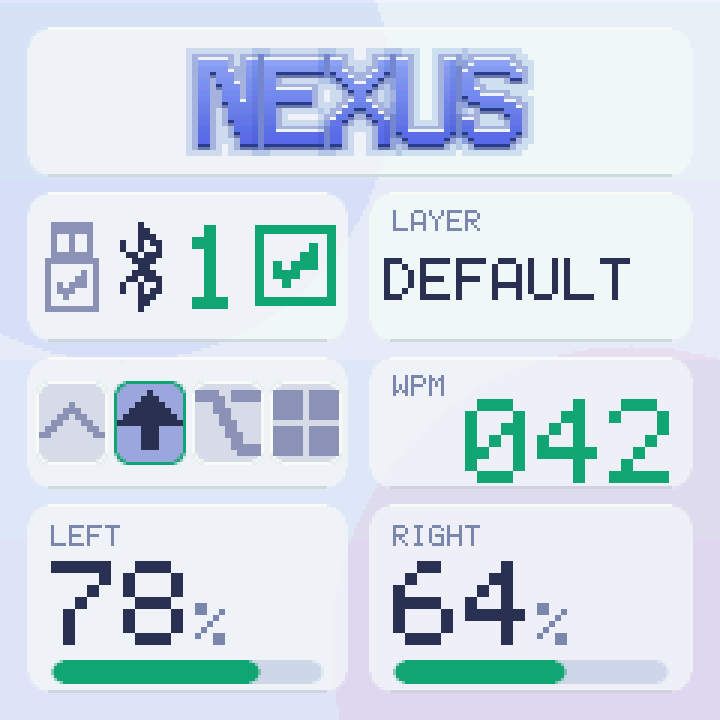
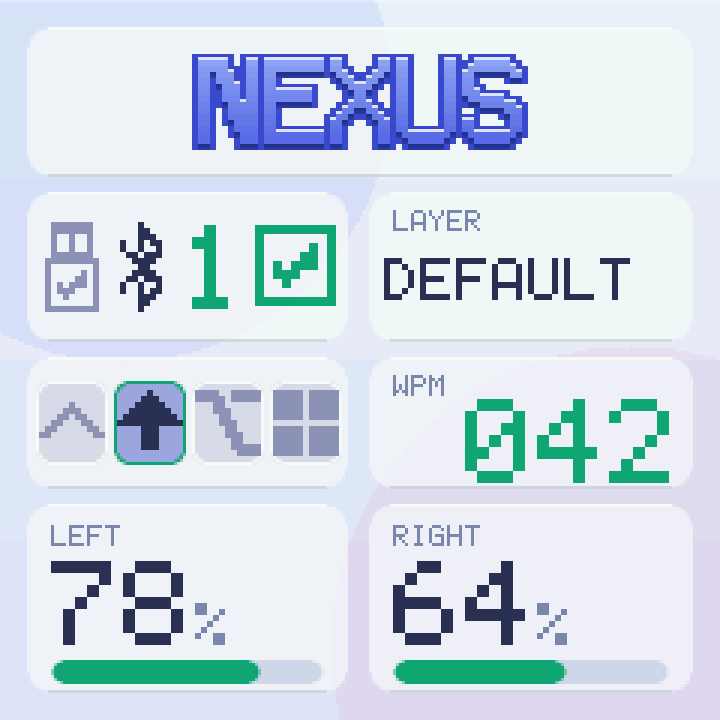
fix(N-01): daylight outlines the wordmark instead of glowing it
A halo works because a bright letter plausibly spills light into a dark
ground. On a light one there is nothing for it to spill into, and the same
halo reads as the screen being out of focus - a rendering failure rather than
a style choice, on the first screen anyone sees.

So the halo is per theme now: wordmark_glow_alpha, and zero does not mean
"no glow" - it means outline. gfx_face_text_glass() draws wordmark[2] one
opaque pixel around the letterform instead, which the face then overdraws
down to a single lit edge. That matters: the halo was doing two jobs and only
one of them was decoration. Drop both and the letters go soft against the
panel.

Daylight is the theme that takes it. The other six carry the old constant as
their value, and their renders are byte-identical - only home-daylight.png
changed.

The rule is decidable rather than taste, so tests/ui/test_theme.py decides
it: card luma is computed by compositing each theme's panel tint over its own
background at its own opacity - the tint alone says nothing, NEXUS paints
near-white at low alpha over near-black - and a light card must have no halo
while a dark one must have one. It also checks the outline colour has
contrast against the card it lands on.

test_home_layout.py now asserts the UI static ceiling the plan sets: the
compositor band plus the menu value cache is 5,984 B, Diagnostics computes it
rather than printing a literal, and the docs quote the same figure.

Changed region(s): [[0.2444, 0.0611, 0.7639, 0.2139]]

diff --git a/tests/ui/test_theme.py b/tests/ui/test_theme.py
@@ -1,0 +1,113 @@
+#!/usr/bin/env python3
+"""Theme table rules that are not a matter of taste.
+
+A palette is mostly judgement, but a few things in it are decidable, and
+those are the ones that get shipped wrong: a device meant for a dark ground
+used on a light one, a field left at its zero value because a new theme was
+added by copying an old one and deleting the lines that did not compile.
+
+So this checks the rules that have a reason, not the colours.
+"""
+import os
+import re
+import sys
+
+ROOT = os.path.join(os.path.dirname(os.path.abspath(__file__)), '..', '..')
+
+bad = []
+
+
+def ok(cond, why):
+    print(('  ok    ' if cond else '  FAIL  ') + why)
+    if not cond:
+        bad.append(why)
+
+
+def read(*parts):
+    with open(os.path.join(ROOT, *parts), encoding='utf-8') as f:
+        return f.read()
+
+
+def lum(rgb):
+    """Rec. 601 luma, 0-255. Good enough to say light from dark."""
+    r, g, b = (rgb >> 16) & 0xFF, (rgb >> 8) & 0xFF, rgb & 0xFF
+    return (299 * r + 587 * g + 114 * b) // 1000
+
+
+def over(top, bot, alpha):
+    """What the eye gets: a tint composited over the ground beneath it.
+
+    The panel colour on its own says nothing - NEXUS paints a near-white
+    tint at low opacity over a near-black ground and the result is dark.
+    """
+    out = 0
+    for sh in (16, 8, 0):
+        t, b = (top >> sh) & 0xFF, (bot >> sh) & 0xFF
+        out |= ((t * alpha + b * (255 - alpha)) // 255) << sh
+    return out
+
+
+def panel_lum(t):
+    """Luma of a card as drawn, over the top of the background gradient."""
+    return lum(over(t['panel'], t['bg_top'], t['panel_alpha']))
+
+
+def themes():
+    out = []
+    for blob in read('src', 'ui', 'theme.c').split('.name = ')[1:]:
+        t = {'name': re.match(r'"([^"]+)"', blob).group(1)}
+        for m in re.finditer(r'\.(\w+) = NEXUS_C\(0x([0-9A-Fa-f]+)u\)', blob):
+            t[m.group(1)] = int(m.group(2), 16)
+        for m in re.finditer(r'\.(\w+_alpha|radius) = (\d+)', blob):
+            t[m.group(1)] = int(m.group(2))
+        wm = re.search(r'\.wordmark = \{([^}]*)\}', blob, re.S).group(1)
+        t['wordmark'] = [int(x, 16)
+                         for x in re.findall(r'0x([0-9A-Fa-f]+)u', wm)]
+        out.append(t)
+    return out
+
+
+def main():
+    ts = themes()
+    print('%d themes' % len(ts))
+
+    print('\nEvery theme fills in every field')
+    fields = set()
+    for t in ts:
+        fields |= set(t)
+    for t in ts:
+        missing = sorted(fields - set(t))
+        ok(not missing, '%-9s declares them all%s'
+           % (t['name'], '' if not missing else ' - missing %s' % missing))
+
+    print('\nThe wordmark halo is a dark-ground device')
+    # A halo works because a bright letter plausibly spills light into a dark
+    # ground. On a light one there is nothing to spill into and the same
+    # halo reads as the panel being out of focus, so the rule is decidable
+    # from the background rather than per-theme taste.
+    for t in ts:
+        light = panel_lum(t) > 140
+        glow = t.get('wordmark_glow_alpha')
+        ok(glow == 0 if light else glow > 0,
+           '%-9s card luma %3d -> glow %s'
+           % (t['name'], panel_lum(t),
+              'off, outlined instead' if glow == 0 else str(glow)))
+
+    print('\nA theme with no halo still needs its edge')
+    g = read('src', 'ui', 'gfx.c')
+    ok('} else {' in g.split('if (glow_a) {')[1][:900],
+       'gfx_face_text_glass draws an outline when glow_a is 0')
+    for t in ts:
+        if t.get('wordmark_glow_alpha'):
+            continue
+        # wordmark[2] is what gets drawn as that outline.
+        ok(abs(lum(t['wordmark'][2]) - panel_lum(t)) > 60,
+           '%-9s outlines in wordmark[2], luma %d against a card at %d'
+           % (t['name'], lum(t['wordmark'][2]), panel_lum(t)))
+
+    print('\n%s' % ('FAILED (%d)' % len(bad) if bad else 'PASSED'))
+    return 1 if bad else 0
+
+
+if __name__ == '__main__':
+    sys.exit(main())

diff --git a/scripts/render_ui.py b/scripts/render_ui.py
@@ -401,10 +401,12 @@ class UI:
             self.cv.text(x, y, ch, scale, c)
             x += text_w(ch, scale) + scale + track
 
-    def wordmark(self, cx, y, s, scale, glow_a=70, lit=-1):
+    def wordmark(self, cx, y, s, scale, glow_a=None, lit=-1):
         """gfx_face_text_glass(), per letter, as wordmark_letters() does."""
         t, cv = self.t, self.cv
         wm = t['wordmark']
+        if glow_a is None:
+            glow_a = t['wordmark_glow_alpha']
         pen = cx - face_w(s, scale) // 2
         fy = y + 2 * scale
         for i, ch in enumerate(s):
@@ -413,15 +415,22 @@ class UI:
             top, bot, glow = wm[0], wm[1], glow_a
             if lit >= 0 and i == lit:
                 # The splash walks this along the word: the lit letter goes
-                # flat white and its halo comes up to full.
+                # flat and its halo comes up to full - on a theme with no
+                # halo the colour change carries it alone.
                 top = bot = t['value']
-                glow = 255
+                glow = 255 if glow else 0
             h1 = dilate(g, FACE_H)
-            h2 = dilate(h1, FACE_H + 2)
-            cv.glyph(pen - 2 * scale, fy - 2 * scale, h2, FACE_W + 4,
-                     FACE_H + 4, scale, wm[2], glow // 2)
-            cv.glyph(pen - scale, fy - scale, h1, FACE_W + 2, FACE_H + 2,
-                     scale, wm[2], glow)
+            if glow:
+                h2 = dilate(h1, FACE_H + 2)
+                cv.glyph(pen - 2 * scale, fy - 2 * scale, h2, FACE_W + 4,
+                         FACE_H + 4, scale, wm[2], glow // 2)
+                cv.glyph(pen - scale, fy - scale, h1, FACE_W + 2, FACE_H + 2,
+                         scale, wm[2], glow)
+            else:
+                # No halo: a one-pixel outline instead, which the face
+                # overdraws down to a single lit edge.
+                cv.glyph(pen - scale, fy - scale, h1, FACE_W + 2, FACE_H + 2,
+                         scale, wm[2], OPAQUE)
             cv.glyph(pen, fy + 2, g, FACE_W, FACE_H, scale, wm[4], 90)
             cv.glyph(pen, fy + 1, g, FACE_W, FACE_H, scale, wm[3], 200)
             cv.glyph(pen, fy - 1, g, FACE_W, FACE_H, scale, t['edge_hi'], 220)

diff --git a/src/ui/theme.c b/src/ui/theme.c
@@ -31,6 +31,7 @@ static const struct nexus_theme themes[] = {
 		.wordmark = { NEXUS_C(0xFFFFFFu), NEXUS_C(0xFFC2DCu),
 			      NEXUS_C(0xFF5FA2u), NEXUS_C(0x8E2A63u),
 			      NEXUS_C(0x3A0F2Au) },
+		.wordmark_glow_alpha = 70,
 		.radius = 7,
 	},
 	{
@@ -52,6 +53,7 @@ static const struct nexus_theme themes[] = {
 		.wordmark = { NEXUS_C(0xFFFFFFu), NEXUS_C(0xFFC2DCu),
 			      NEXUS_C(0xFF5FA2u), NEXUS_C(0x8E2A63u),
 			      NEXUS_C(0x3A0F2Au) },
+		.wordmark_glow_alpha = 70,
 		.radius = 7,
 	},
 	{
@@ -73,6 +75,10 @@ static const struct nexus_theme themes[] = {
 		.wordmark = { NEXUS_C(0x8FA0F0u), NEXUS_C(0x5A6BE0u),
 			      NEXUS_C(0x3B4BC8u), NEXUS_C(0x26308Au),
 			      NEXUS_C(0x161C52u) },
+		/* No halo on a light ground: it reads as blur rather
+		 * than as light, and wordmark[2] outlines the letter
+		 * instead so the edges stay defined. */
+		.wordmark_glow_alpha = 0,
 		.radius = 7,
 	},
 	{
@@ -94,6 +100,7 @@ static const struct nexus_theme themes[] = {
 		.wordmark = { NEXUS_C(0xF7C2D8u), NEXUS_C(0xE86A9Au),
 			      NEXUS_C(0xA83C6Cu), NEXUS_C(0x6B2244u),
 			      NEXUS_C(0x3A1226u) },
+		.wordmark_glow_alpha = 70,
 		.radius = 9,
 	},
 	{
@@ -113,6 +120,7 @@ static const struct nexus_theme themes[] = {
 		.wordmark = { NEXUS_C(0xFFF0D8u), NEXUS_C(0xFFD9A0u),
 			      NEXUS_C(0xE9A23Bu), NEXUS_C(0x8A5414u),
 			      NEXUS_C(0x4A2C0Au) },
+		.wordmark_glow_alpha = 70,
 		.radius = 7,
 	},
 	{
@@ -132,6 +140,7 @@ static const struct nexus_theme themes[] = {
 		.wordmark = { NEXUS_C(0xE8FFF4u), NEXUS_C(0xB8FFDCu),
 			      NEXUS_C(0x5CFFB0u), NEXUS_C(0x2FBE80u),
 			      NEXUS_C(0x0E4A32u) },
+		.wordmark_glow_alpha = 70,
 		.radius = 7,
 	},
 	{
@@ -155,6 +164,7 @@ static const struct nexus_theme themes[] = {
 		.wordmark = { NEXUS_C(0xFFF6DCu), NEXUS_C(0xFFE9A8u),
 			      NEXUS_C(0xFFB347u), NEXUS_C(0xC4506Bu),
 			      NEXUS_C(0x5A1430u) },
+		.wordmark_glow_alpha = 70,
 		.radius = 7,
 	},
 };

diff --git a/tests/ui/test_home_layout.py b/tests/ui/test_home_layout.py
@@ -310,6 +310,31 @@ def main():
         ok(face_w('NEXUS', asz) + 2 * GLOW_CELLS * asz
            <= C['NEXUS_CONTENT_W'], 'About wordmark fits the card width')
 
+    print('\nUI static RAM')
+    # The ceiling, and the only number in Diagnostics that is a promise
+    # rather than a reading. Every buffer NEXUS owns is static, so this is
+    # the whole of it: the compositor band plus the menu value cache. A
+    # ticket that grows it is a ticket that got the wrong answer.
+    CEILING = 5984
+    gfx_h = open(os.path.join(root, 'include', 'nexus', 'gfx.h'),
+                 encoding='utf-8').read()
+    menus = open(os.path.join(root, 'src', 'ui', 'menus.c'),
+                 encoding='utf-8').read()
+
+    def define(text, name):
+        return int(re.search(r'#define %s\s+(\d+)' % name, text).group(1))
+
+    band = define(gfx_h, 'GFX_W') * define(gfx_h, 'GFX_STRIP_H') * 2
+    cache = define(menus, 'MAX_ROWS') * define(menus, 'VAL_MAX')
+    ok(band + cache == CEILING,
+       'band %d + value cache %d = %d, the documented ceiling'
+       % (band, cache, band + cache))
+    ok('sizeof(g_val) + GFX_W * GFX_STRIP_H * 2U' in menus,
+       'and Diagnostics computes it rather than printing a literal')
+    ok(str(CEILING) in open(os.path.join(root, 'docs', 'configuration.md'),
+                            encoding='utf-8').read().replace(',', ''),
+       'the docs quote the same number')
+
     print('\nHierarchy')
     ok('nexus_draw_caption(' in src, 'card headings are captions again')
     ok(str(C['NEXUS_TXT_BIG']) in src or True, '')

diff --git a/src/ui/widgets.c b/src/ui/widgets.c
@@ -259,7 +259,6 @@ void nexus_draw_tracked(int cx, int y, const char *text, int scale, int track,
  * itself; the home screen does not.
  */
 #define WORDMARK_GLOW_CELLS 2
-#define WORDMARK_GLOW_ALPHA 70
 
 /*
  * The wordmark, made of the same glass as the cards under it.
@@ -310,13 +309,17 @@ static void wordmark_letters(int cx, int y, const char *text, int scale,
 	for (const char *p = text; p && *p; p++) {
 		gfx_color top = t->wordmark[0];
 		gfx_color bot = t->wordmark[1];
-		uint8_t glow = WORDMARK_GLOW_ALPHA;
+		uint8_t glow = t->wordmark_glow_alpha;
 
 		if (lit >= 0 && (p - text) == lit) {
 			/* The splash walks this along the word: the lit letter
-			 * goes flat white and its halo comes up. */
+			 * goes flat and its halo comes up. On a theme with no
+			 * halo the colour change carries it alone, which on a
+			 * light ground is the stronger signal anyway. */
 			top = bot = t->value;
-			glow = 255;
+			if (glow) {
+				glow = 255;
+			}
 		}
 
 		one[0] = *p;

diff --git a/src/ui/gfx.c b/src/ui/gfx.c
@@ -756,6 +756,20 @@ void gfx_face_text_glass(int x, int y, const char *s, int scale, gfx_color top,
 				  (uint8_t)(glow_a / 2));
 			gfx_glyph(x - scale, y - scale, halo, FACE_W + 2,
 				  FACE_H + 2, scale, glow, glow_a);
+		} else {
+			/*
+			 * No halo asked for: an outline instead, one dilation
+			 * out and opaque. The face is drawn over it below, so
+			 * what survives is a single pixel around the
+			 * letterform.
+			 *
+			 * Not "nothing", deliberately. A halo on a light
+			 * ground reads as blur, but the edge definition it
+			 * was providing is still needed - drop both and the
+			 * letters go soft against the panel.
+			 */
+			gfx_glyph(x - scale, y - scale, halo, FACE_W + 2,
+				  FACE_H + 2, scale, glow, GFX_OPAQUE);
 		}
 
 		/*

diff --git a/include/nexus/gfx.h b/include/nexus/gfx.h
@@ -160,6 +160,13 @@ void gfx_glyph_grad(int x, int y, const uint16_t *rows, int w, int h,
  * letters - but the glow reaches two letter-pixels past them on every side,
  * which the caller must leave room for.
  */
+/**
+ * The display face as glass: graded fill, a one-pixel bevel, halo behind.
+ *
+ * @p glow_a of 0 does not mean "no glow" - it means outline: @p glow is drawn
+ * opaque one pixel around the letterform instead of as a halo. A light theme
+ * needs that edge definition without the blur a halo becomes on it.
+ */
 void gfx_face_text_glass(int x, int y, const char *s, int scale, gfx_color top,
 			 gfx_color bot, gfx_color hi, gfx_color lo_near,
 			 gfx_color lo_far, gfx_color glow, uint8_t glow_a);

diff --git a/include/nexus/theme.h b/include/nexus/theme.h
@@ -71,6 +71,19 @@ struct nexus_theme {
 	 */
 	gfx_color wordmark[5];
 
+	/*
+	 * Halo opacity behind the wordmark, and 0 means something specific:
+	 * draw a one-pixel outline in wordmark[2] instead.
+	 *
+	 * Glow is a dark-background device. It works because a bright letter
+	 * on a dark ground plausibly spills light into it; on a light ground
+	 * there is nothing for it to spill into, and the same halo reads as
+	 * the screen being out of focus - a rendering failure rather than a
+	 * style. The outline does the job the halo was actually doing, which
+	 * is keeping the letterform's edge defined against the panel.
+	 */
+	uint8_t wordmark_glow_alpha;
+
 	uint8_t radius; /* card corner radius */
 };
 

diff --git a/docs/ui.md b/docs/ui.md
@@ -62,8 +62,9 @@ Four rows in a 240x240 square:
 - **modifiers and WPM**
 - **both halves' batteries**
 
-The title is drawn as glass -- a near-white face over a soft accent halo, with
-a one-pixel bevel -- in the active theme's colours. `CONFIG_NEXUS_PRODUCT` sets
+The title is drawn as glass -- a near-white face over a soft accent halo (a
+one-pixel outline instead, on a light theme), with a one-pixel bevel -- in the
+active theme's colours. `CONFIG_NEXUS_PRODUCT` sets
 the word; nothing sits under it, deliberately.
 
 Gutters are 5px rather than the usual 7, which is what buys the link row the
@@ -214,6 +215,14 @@ Swatch order: `bg_bot`, `panel`, `value`, `accent`, `accent_alt`, `warning`,
 Each theme also carries a five-stop ramp for the title, brightest to darkest:
 `[0]`/`[1]` shade the face, `[2]` is the halo behind it, `[3]`/`[4]` the two
 graded pixels of shade under every edge.
+
+`wordmark_glow_alpha` sets how strongly `[2]` sits behind the letters, and
+**zero means outline, not off**: `[2]` is drawn one opaque pixel around the
+letterform instead. A halo works because a bright letter plausibly spills
+light into a dark ground -- on a light one there is nothing to spill into, and
+the same halo reads as the screen being out of focus. Daylight is the theme
+that takes the outline; the edge definition is still needed, only the blur is
+not.
 
 | | ramp |
 | --- | --- |

diff --git a/docs/configuration.md b/docs/configuration.md
@@ -8,7 +8,7 @@ Everything is Kconfig or devicetree. If you find yourself editing a file under
 | Option | Default | |
 | --- | --- | --- |
 | `CONFIG_NEXUS_BRAND` | `"VAIBHAV TECH"` | Small line above the wordmark on the splash and About screens. Empty hides it. |
-| `CONFIG_NEXUS_PRODUCT` | `"NEXUS"` | The wordmark itself. Drawn as glass -- a near-white face with a soft accent halo behind it and a one-pixel bevel -- as large as it fits; a longer name steps down a size rather than overflowing. |
+| `CONFIG_NEXUS_PRODUCT` | `"NEXUS"` | The wordmark itself. Drawn as glass -- a near-white face with a soft accent halo behind it (an outline instead, on a light theme) and a one-pixel bevel -- as large as it fits; a longer name steps down a size rather than overflowing. |
 | `CONFIG_NEXUS_AUTHOR` | `"VAIBHAV RAJPUT"` | Creator credit on the About screen. Empty hides the card. |
 | `CONFIG_NEXUS_SUBTITLE` | `"SMART ZMK DONGLE"` | Strapline on the splash badge, and a line on About. Empty hides it. Deliberately **not** on Home: the brand plate carries the name and nothing else. |
 
